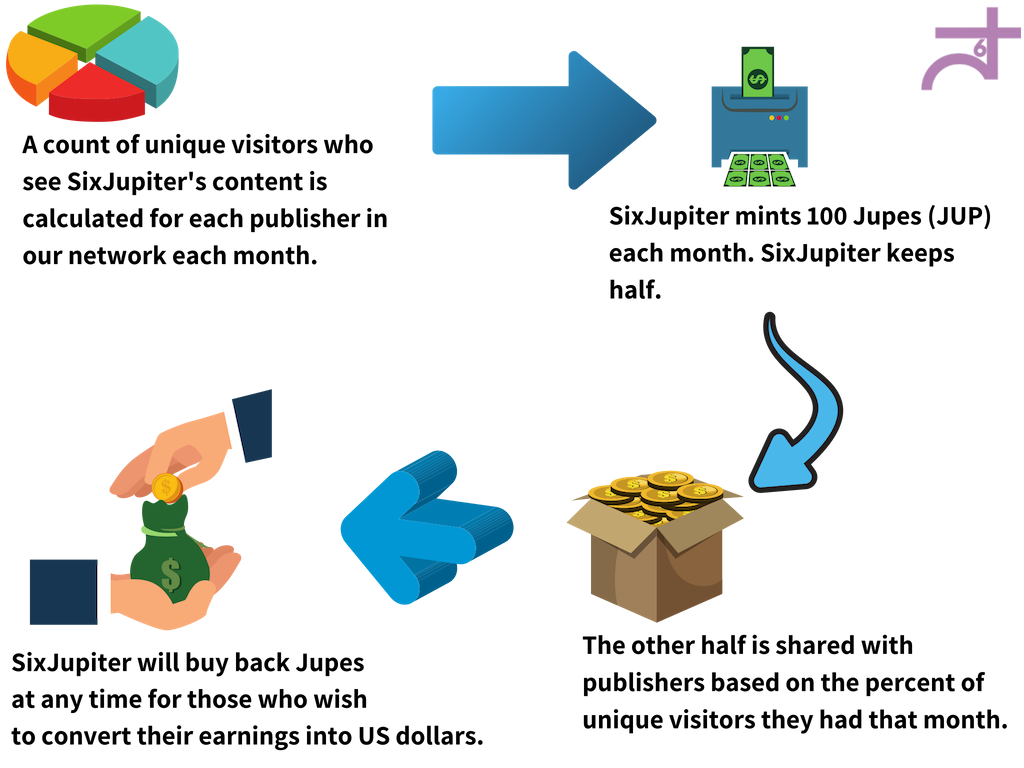
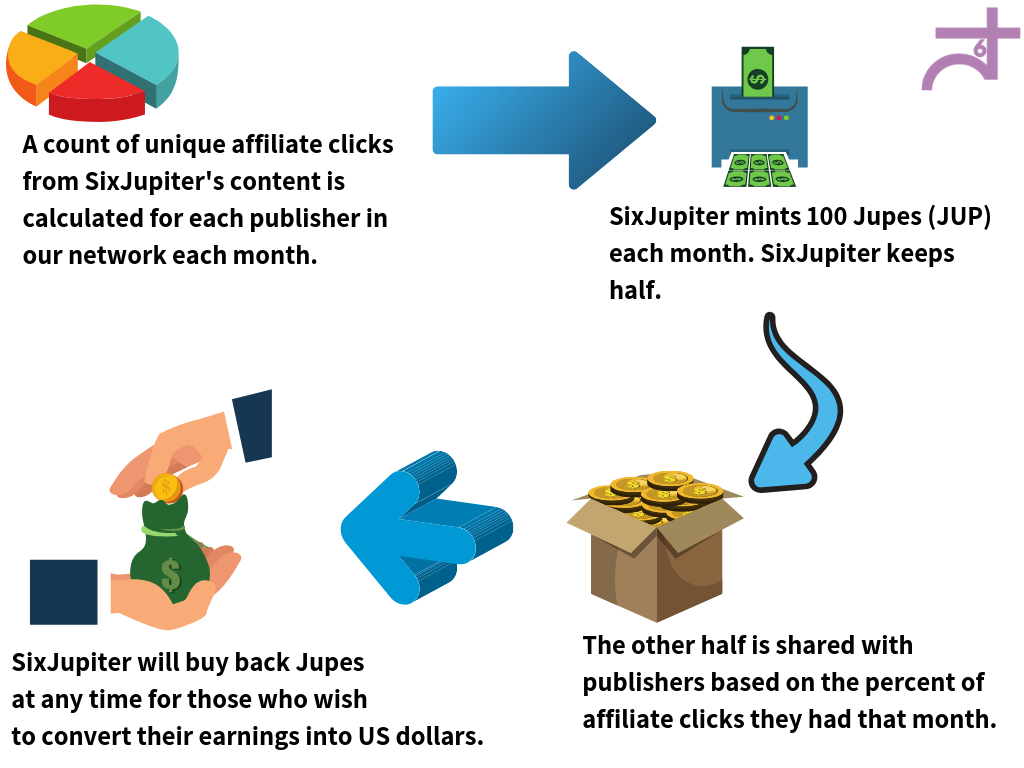
update

diff --git a/index.html b/index.html
@@ -129,15 +129,9 @@ Choose either or both of our content products:</p><br />
 <li>Customized research reports on over 1500 Ethereum tokens to help your users discover and evaluate new currencies. 
 <a href="https://sixjupiter.news/augur/" style="color:white;font-weight:bold;" target="_blank">See an example.</a> </li>
 <li>Unique weekly news updates on select cryptocurrencies to help your audience monitor the currencies they care about. 
-<a href="https://sixjupiter.news/augur-news/" style="color:white;font-weight:bold;" target="_blank">See an example.</a> </li> </li>
+<a href="https://sixjupiter.news/augur-rep-april-9-2019-weekly-recap/" style="color:white;font-weight:bold;" target="_blank">See an example.</a> </li> </li>
 </ol> 
 
-<!-- <h3>Use WordPress?</h3>
-<ul>
-<li>+ Our API will post new and updated content to your site daily</li>
-<li>+ Integrates seamlessly into your existing navigation, layout, and search tool</li>
-<li>+ Requires virtually no maintenance effort</li>    
-</ul> -->
               </div>
               <div class="col-sm-4 col-md-3 col-md-offset-1 white text-center">
                   <img src="img/coins-six.png">
@@ -177,13 +171,27 @@ Choose either or both of our content products:</p><br />
 <ul style="padding-left:25px;">
 
 <li><strong>+ Data collection.</strong> We collect data from the Ethereum blockchain and various data providers 
-(<a href="https://coingecko.com/" target="_blank">CoinGecko</a>, <a href="https://etherscan.com/" target="_blank">Etherscan</a>, <a href="https://ethplorer.io/" target="_blank">Ethplorer</a>, <a href="https://cryptocompare.com/" target="_blank">Cryptocompare</a>, Twitter)
-to develop a comprehensive dataset for over 1,500 cryptocurrencies on the Ethereum blockchain. Take a look at <strong><a href="https://sixjupiter.com/crypto/ethereum-one-dictionary.html" target="_blank" class="bluelink">the dataset we build daily</a></strong>.</li>
-<li><strong>+ Content generation.</strong> Our artificial intelligence takes this data set and generates text reports, complete with interactive visualizations and relevant affiliate links, for each of the 1,500+ Ethereum tokens in our index. We work with our 
-publishing partners to ensure the text is original, helps you target <a href="https://moz.com/blog/long-tail-seo-target-low-volume-keywords-whiteboard-friday" target="_blank" class="bluelink">the longtail</a> of cryptocurrency names/keywords for your SEO strategy, and is consistent with your editorial objective.</li>
-<li><strong>+ Seamless integration into your web site.</strong> Reports are posted using the WordPress built into your site, so that they seamlessly integrate into the look, feel, navigation, search, and administration console of your web site. </li>
+(<a href="https://coingecko.com/" target="_blank">CoinGecko</a>, <a href="https://coinpaprika.com/" target="_blank">CoinPaprika</a>, 
+<a href="https://coinmarketcap.com/" target="_blank">CoinMarketCap</a>,<a href="https://etherscan.com/" target="_blank">Etherscan</a>, 
+<a href="https://ethplorer.io/" target="_blank">Ethplorer</a>, <a href="https://cryptocompare.com/" target="_blank">Cryptocompare</a>, <a href="https://twitter.com">Twitter</a>, 
+<a href="https:/github.com">GitHub</a>, <a href="https://medium.com">Medium</a>) to develop a comprehensive dataset for over 1,500 cryptocurrencies. </li>
+<br />
+<li><strong>+ Content generation.</strong> Our artificial intelligence takes this data set and:<br /><br />
+<ul style="padding-left:5px;">
+<li style="padding-left:5px;">+ Generates an ever growing collection of "content modules" -- paragraphs of text about a given topic</li>
+<li style="padding-left:5px;">+ Builds interactive visualizations</li>
+<li style="padding-left:5px;">+ Inserts relevant affiliate links into content modules</li>
+</ul>
+
+ <br />We work with our publishing partners to combine content modules into news updates or research reports on the cryptocurrencies 
+ our partners care about in a manner that suits their content marketing strategy. <br /><br /></li>
+<li><strong>+ Seamless integration into your web site.</strong> After we build unique content for you that you approve, 
+we post and manage them to your site via an API. If your site runs on <a href="https://wordpress.org/" target="_blank">WordPress</a>, 
+you have an API automatically built into your site that we can leverage so that the content generated can seamlessly integrate into the look, 
+feel, navigation, search, and administration console of your web site. </li><br />
 <li><strong>+ Get paid!</strong> You keep 100% of the banner ad revenue surrounding the content SixJupiter creates for your site. 
-Revenue from ads and affiliate links inserted by SixJupiter are shared with you monthly in the form of our cryptocurrency, <a href="https://etherscan.io/token/0xd3626b8f6cbc2f013743c519a25088b1d3f70d89" target="_blank" class="bluelink"> Jupes</a>, which are deposited into the 
+Revenue from ads and affiliate links inserted by SixJupiter are shared with you monthly in the form of our cryptocurrency, 
+<a href="https://etherscan.io/token/0xd3626b8f6cbc2f013743c519a25088b1d3f70d89" target="_blank" class="bluelink"> Jupes</a>, which are deposited into the 
 Ethereum wallet you specify monthly. Jupes help all the members of the SixJupiter network profit together while also providing the safety of being
 able to converted into US dollars, Euros, or other traditional currencies at any time. Learn about how <a data-scroll href="#jupes" class="bluelink">our revenue sharing program works</a>. </li>    
 </ul>
@@ -202,13 +210,24 @@ able to converted into US dollars, Euros, or other traditional currencies at any
         <div class="col-md-10 m-auto">
           <div class="section-heading text-center">
             <h3>See an Example</h3>
-      
-<br />Our demo site, <a href="https://sixjupiter.news/" rel="nofollow" target="_blank" class="bluelink">sixjupiter.news</a> shows our custom reports and how they can be integrated into a 
-Wordpress site for cryptocurrency publishers. See some specific examples of reports that are updated daily: 
-<a href="https://sixjupiter.news/binancecoin/" target="_blank" class="bluelink">Binancecoin</a>, 
-<a href="https://sixjupiter.news/omisego/" target="_blank" class="bluelink">Omisego</a>, 
-<a href="https://sixjupiter.news/augur/" target="_blank" class="bluelink">Augur</a>, 
-<a href="https://sixjupiter.news/simple-token/" target="_blank" class="bluelink">Simple Token</a> and over 1,500 more.  <br />
+      <div style="text-align:left;">
+<br />Our demo site, <a href="https://sixjupiter.news/" rel="nofollow" target="_blank" class="bluelink">sixjupiter.news</a> shows our custom reports and 
+how they can be integrated into a Wordpress site for cryptocurrency publishers. 
+<br /><br />
+<div style="text-align:center;"><em style='font-size:20px;'>Examples of Research Reports</em><br />
+
+<a href="https://sixjupiter.news/binancecoin/" target="_blank" class="bluelink">Binance Coin</a>, 
+<a href="https://sixjupiter.news/omisego/" target="_blank" class="bluelink">Basic Attention Token</a>, 
+<a href="https://sixjupiter.news/augur/" target="_blank" class="bluelink">Augur</a> 
+<br /><br />
+
+<em style='font-size:20px;'>Examples of News Updates</em><br />
+
+<a href="https://sixjupiter.news/binance-coin-bnb-april-9-2019-weekly-recap/" target="_blank" class="bluelink">Binance Coin</a>, 
+<a href="https://sixjupiter.news/basic-attention-token-bat-april-9-2019-weekly-summary/" target="_blank" class="bluelink">Basic Attention Token</a>, 
+<a href="https://sixjupiter.news/augur-rep-april-9-2019-weekly-recap/" target="_blank" class="bluelink">Augur</a> 
+<br /></div>
+</div>
 
           <div class="col-sm-12 col-md-offset-1 col-md-10 white text-center" style="padding-top:25px;">
             <a href="https://sixjupiter.news" rel="nofollow" class="btn btn-purple btn-circled gradient" target="_blank">See Our Demo Site</a>
@@ -247,36 +266,36 @@ Wordpress site for cryptocurrency publishers. See some specific examples of repo
 
 <p><img src="img/jupes-flow.png"></p>
 
-<br /><h4>Why Jupes?</h4><br />
+<br /><h4>Jupes: Making Crypto Affiliate Programs Easy</h4><br />
 
         <p> <ul style="padding-left:25px; line-height:30px;">
 
-<li><strong>+ Fairer Reward for Affiliates.</strong> The industry standard in affiliate marketing is to reward the last click that generates the sale while
-ignoring the contributions of others that helped drive users to conversion. By awarding Jupes based on unique visitors SixJupiter helps affiliates at all
-points in the conversion funnel. </li>
-<li><strong>+ Standardizing Crypto Affiliate Programs.</strong> Cryptocurrency affiliate programs from brokers typically pay out in Ethereum, Bitcoin,
-or even another token. SixJupiter standardizes all these into Jupes and allows Jupes to be redeemed for traditional nation-state currencies, which makes
-affiliate program management easier for publishers so that they can focus on what they do best: publishing great content.</li>
-
+Cryptocurrency affiliate programs from brokers typically pay out in Ethereum, Bitcoin,
+or even another token unique to the broker. SixJupiter standardizes all these into Jupes and allows Jupes to be redeemed for 
+traditional nation-state currencies, which makes
+affiliate program management easier for publishers so that they can focus on what they do best: publishing great content and delivering it an 
+audience that appreciates it.</li><br />
 
 <br /><h4>The fine print</h4><br />
 
         <p> <ul style="padding-left:25px; line-height:30px;">
 
-<li><strong>+ Calculating Your Unique Visitor Percentage.</strong> SixJupiter tracks the number of unique visitors that each publisher shows SixJupiter's
-ads and content to. SixJupiter does this by installing a Google Analytics snippet on the web pages it shares to your site.</li>
+<li><strong>+ Calculating Unique Affiliate Clicks Per Publisher Per Month.</strong> SixJupiter tracks the number of unique clicks per month 
+on the affiliate links inserted into the content that published on each partner's site. </li><br />
 <li><strong>+ Monthly Jupes Minting.</strong> Each month, SixJupiter mints 100 Jupes, its cryptocurrency. Jupes supply and transactions can be observed
-<a href="https://etherscan.io/token/0xd3626b8f6cbc2f013743c519a25088b1d3f70d89" target="_blank" class="bluelink">on Etherscan</a>. </li>
-<li id="floor"><strong>+ Jupes Distributed Based on Unique Visitor Percentage.</strong> SixJupiter keeps 50 Jupes to fund its operations and reward its core team members. 
-The remaining 50 Jupes are distributed proportionally based on how many unique visitors they showed SixJupiter's content to. So, if Property A is responsible for 18%
-of all unique visitors that saw SixJupiter content in a given month, Property A will have 9 Jupes deposited into its wallet for that month. 
-Unique visitor data and revenue will be shared with members of our network via <a href="https://jupiter-co.slack.com/" target="_blank" class="bluelink">our Slack channel</a>, where publishers
-can also engage with each other, our core team, and observe our operating processes in their entirety.
+<a href="https://etherscan.io/token/0xd3626b8f6cbc2f013743c519a25088b1d3f70d89" target="_blank" class="bluelink">on Etherscan</a>. </li><br />
+<li id="floor"><strong>+ Jupes Distributed Based on Unique Click Percentage.</strong> SixJupiter keeps 50 Jupes to fund its operations and reward 
+its core team members. The remaining 50 Jupes are distributed proportionally based on how many unique visitors they showed SixJupiter's content to. 
+So, if Property A is responsible for 18% of all unique SixJupiter affiliate clicks in a given month, Property A will have 9 Jupes deposited into 
+its wallet for that month. Each publisher will be provided with a report each month regarding the clicks their content generated. <br /><br />
 <li><strong>+ SixJupiter Will Always Buy Jupes.</strong> SixJupiter will buy Jupes in exchange for US dollars from any holder of them who has acquired Jupes 
-through non-fraudulent means. The amount SixJupiter will pay is based on the amount of US dollars in its revenue pool divided by the outstanding supply of Jupes, <strong><em>thus creating a price floor for Jupes</em></strong>.
-Any Jupes purchased are instantly burned, thus reducing the overall supply of Jupes and helping to further support its value. The rate SixJupiter will pay is updated daily
-on SixJupiter.com. Prior to requesting a conversion of Jupes into US dollars, holders must complete <a href="https://www.irs.gov/pub/irs-pdf/fw9.pdf" target="_blank">a W9 form</a>, 
-so that SixJupiter can remain in compliance with United States' tax authorities. To start a conversion process, simply <a href="mailto:info@sixjupiter.com" class="bluelink">message us</a> to 
+through non-fraudulent means. The amount SixJupiter will pay is based on the amount of US dollars in its revenue pool divided by the outstanding supply of 
+Jupes, <strong><em>thus creating a price floor for Jupes</em></strong>.<br /><br />
+Any Jupes purchased are instantly burned, thus reducing the overall supply of Jupes and helping to further support its value. 
+The rate SixJupiter will pay is updated daily on SixJupiter.com. Prior to requesting a payment from SixJupiter in US dollars, 
+holders must complete <a href="https://www.irs.gov/pub/irs-pdf/fw9.pdf" target="_blank">a W9 form</a>, 
+so that SixJupiter can remain in compliance with United States' tax authorities. To start a conversion process, 
+simply <a href="mailto:info@sixjupiter.com" class="bluelink">message us</a> to 
 initiate an official request.</li>
 </p>
 
@@ -311,9 +330,9 @@ initiate an official request.</li>
 
 <ul style="padding-left:25px;">
 <li>+ Our vision is to use Jupes to enable an ad network in which Jupes are used to coordinate activities to help publishers, advertisers, and investors with
-minimal centralization. In other words, those who own Jupes will end up controlling the ad network. </li>
+minimal centralization. In other words, those who own Jupes will end up controlling the ad network.  </li><br />
 <li>+ Our founder, <a href="https://www.linkedin.com/in/simitpatel/" target="_blank" class="bluelink">Simit Patel</a>, 
-is a data scientist with over a decade of experience in digital marketing for financial services.</li>
+is a data scientist with over a decade of experience in digital marketing for financial services.</li><br />
 <li>+ Our philosophy is to be as transparent as possible to help build trust in the network.</li>
     
 </ul>
